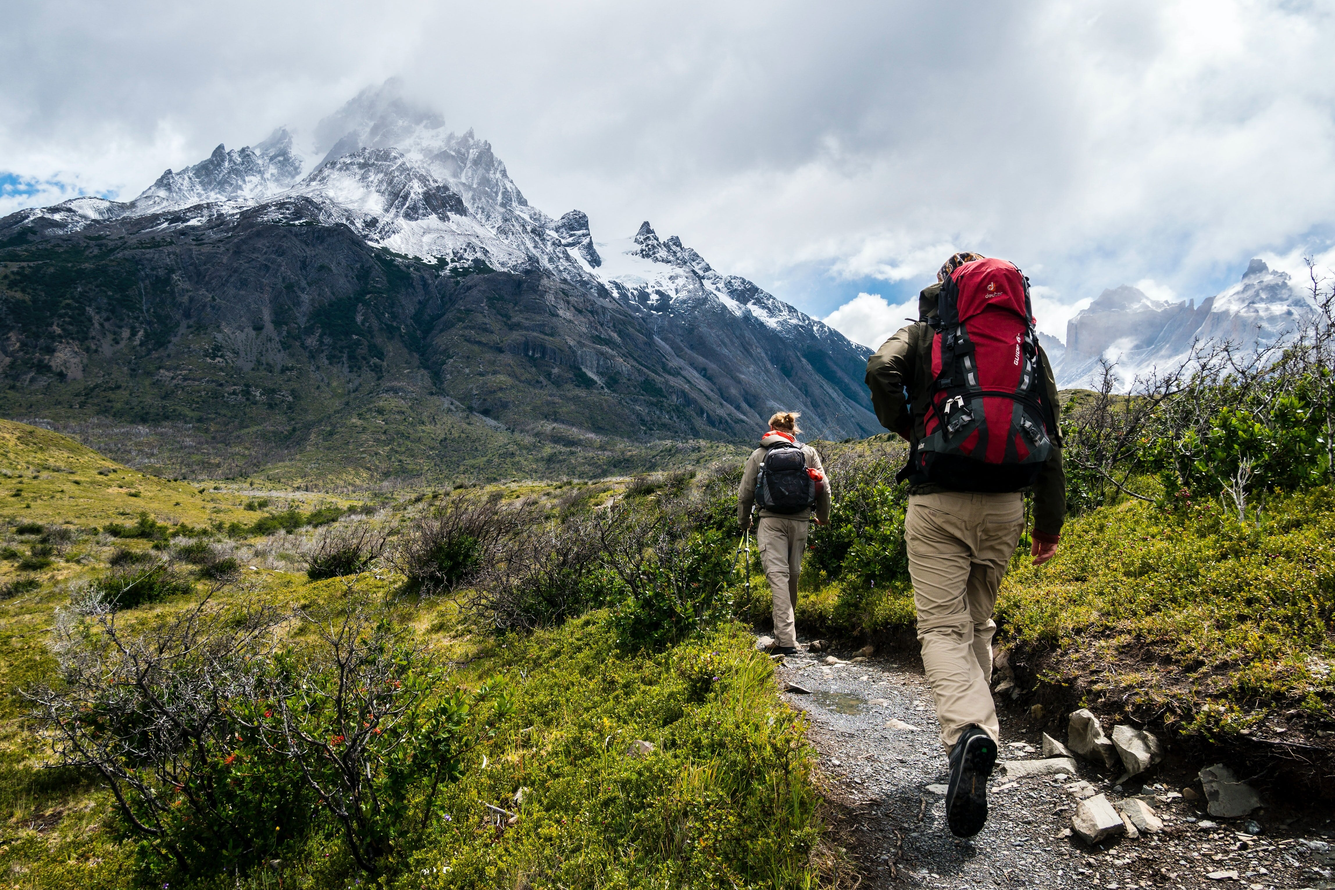
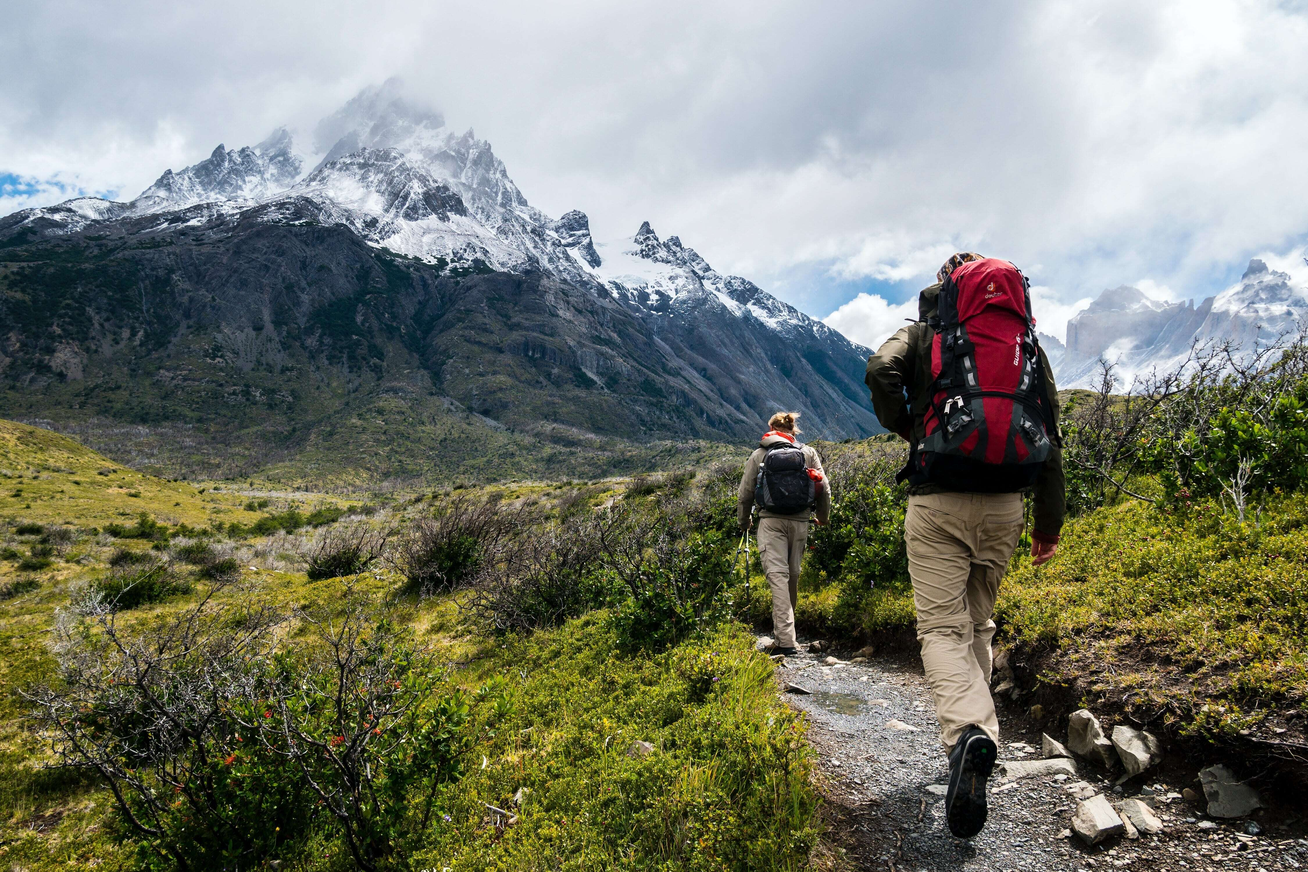
changed images + carousel responsitivity

diff --git a/follow-your-dream/src/components/carousel/Carousel.tsx b/follow-your-dream/src/components/carousel/Carousel.tsx
@@ -1,12 +1,12 @@
-import './Carousel.css';
 import traveler from '../../assets/images/traveler.jpg';
 import marathon from '../../assets/images/marathon.jpg';
 import guitar from '../../assets/images/guitar.jpg';
 import HeaderTitle from '../../components/headertitle/HeaderTitle';
+import './Carousel.css';
 
 export default function Carousel(): JSX.Element {
     return (
-      <div>
+      <div className="carousel-container">
         <div id="carouselExampleIndicators" className="carousel slide" data-bs-ride="carousel">
           <HeaderTitle />
           <div className="carousel-indicators">
@@ -16,13 +16,13 @@ export default function Carousel(): JSX.Element {
           </div>
           <div className="carousel-inner">
             <div className="carousel-item active">
-              <img src={traveler} className="d-block w-100" alt="hikers" />
+              <img src={traveler} className="d-block w-100 img-item" alt="hikers" />
             </div>
             <div className="carousel-item">
-              <img src={marathon} className="d-block w-100" alt="ropes" />
+              <img src={marathon} className="d-block w-100 img-item" alt="ropes" />
             </div>
             <div className="carousel-item">
-              <img src={guitar} className="d-block w-100" alt="town" />
+              <img src={guitar} className="d-block w-100 img-item" alt="town" />
             </div>
           </div>
           <button className="carousel-control-prev" type="button" data-bs-target="#carouselExampleIndicators" data-bs-slide="prev">

diff --git a/follow-your-dream/src/components/carousel/Carousel.css b/follow-your-dream/src/components/carousel/Carousel.css
@@ -1,27 +1,14 @@
- .carousel-item {
-    height: 100vh;
-    min-height: 800px;
-    background: no-repeat center center scroll;
-    -webkit-background-size: cover;
-    -moz-background-size: cover;
-    -o-background-size: cover;
-    background-size: cover;
-  }
-  
-  .carousel-caption {
-    bottom: 270px;
-  }
-  
-  .carousel-caption h5 {
-    font-size: 45px;
-    text-transform: uppercase;
-    letter-spacing: 2px;
-    margin-top: 25px;
-  }
-  
-  .carousel-caption p {
-    width: 75%;
-    margin: auto;
-    font-size: 18px;
-    line-height: 1.9;
-  }
+@media (min-width: 992px) {
+    .img-item {
+        margin-bottom: -150px;
+        margin-top: -150px;
+    }
+}
+
+@media (min-width: 1200px) {
+    .img-item {
+        margin-bottom: -250px;
+        margin-top: -250px;
+    }
+}
+

diff --git a/follow-your-dream/src/components/headertitle/HeaderTitle.css b/follow-your-dream/src/components/headertitle/HeaderTitle.css
@@ -3,29 +3,29 @@
     z-index: 1;
     left: 50%;
     transform: translate(-50%, -50%);
-    color: rgb(5, 5, 5);
-    top: 21%;
+    color: rgb(255, 255, 255);
+    top: 40%;
     text-align: center;
 }
 
 
 
 @media (min-width: 768px) {
-    .first-title {
+    #first-title{
         font-size: 60px;
-        margin: 10px;
+        margin: 20px;
     }
-    .second-title {
+    #second-title {
         font-size: 30px;
         padding: 0px 0px 20px 0px;
     }
 }
 
 @media (max-width: 768px) {
-    .first.title {
-        font-size: 30px;
+    #first-title {
+        font-size: 25px;
     }
-    .second.title {
-        font-size: 5px;
+    #second-title {
+        font-size: 15px;
     }
 }

diff --git a/follow-your-dream/src/components/app/App.tsx b/follow-your-dream/src/components/app/App.tsx
@@ -1,11 +1,11 @@
 import { Route, Routes } from 'react-router-dom';
 import 'bootstrap/dist/css/bootstrap.css';
 
-import Home from '../../pages/Home';
-import Info from '../../pages/Info';
-import Dreams from '../../pages/Dreams';
-import Reviews from '../../pages/Reviews';
-import Contact from '../../pages/Contact';
+import Home from '../../pages/home/Home';
+import Info from '../../pages/info/Info';
+import Dreams from '../../pages/dreams/Dreams';
+import Reviews from '../../pages/reviews/Reviews';
+import Contact from '../../pages/contact/Contact';
 
 function App(): JSX.Element {
 

diff --git a/follow-your-dream/src/components/headertitle/HeaderTitle.tsx b/follow-your-dream/src/components/headertitle/HeaderTitle.tsx
@@ -4,8 +4,8 @@ import GetStartedButton from '../../components/getstartedbutton/GetStartedButton
 export default function HeaderTitle(): JSX.Element {
     return (
         <div className="title-container">
-            <h1 className="first-title">Follow Your Dream</h1>
-            <h2 className="second-title">And become the person you always wanted to be</h2>
+            <h1 id="first-title">Follow Your Dream</h1>
+            <h2 id="second-title">And become the person you always wanted to be</h2>
             <GetStartedButton />
         </div>
     )

diff --git a/follow-your-dream/src/pages/info/Info.tsx b/follow-your-dream/src/pages/info/Info.tsx
@@ -1,0 +1,14 @@
+import Navbar from '../../components/navbar/Navbar';
+import Carousel from '../../components/carousel/Carousel';
+
+export default function Info() {
+    return (
+        <div>
+            < Navbar />
+            < Carousel />
+            <div>
+                <h2>blablabla</h2>
+            </div>
+        </div>
+    )
+}

diff --git a/follow-your-dream/src/pages/contact/Contact.tsx b/follow-your-dream/src/pages/contact/Contact.tsx
@@ -1,0 +1,11 @@
+import Navbar from '../../components/navbar/Navbar';
+import Carousel from '../../components/carousel/Carousel';
+
+export default function Contact() {
+    return (
+        <div>
+            < Navbar />
+            < Carousel />
+        </div>
+    )
+}

diff --git a/follow-your-dream/src/pages/reviews/Reviews.tsx b/follow-your-dream/src/pages/reviews/Reviews.tsx
@@ -1,0 +1,11 @@
+import Navbar from '../../components/navbar/Navbar';
+import Carousel from '../../components/carousel/Carousel';
+
+export default function Reviews() {
+    return (
+        <div>
+            < Navbar />
+            < Carousel />
+        </div>
+    )
+}

diff --git a/follow-your-dream/src/pages/home/Home.tsx b/follow-your-dream/src/pages/home/Home.tsx
@@ -1,0 +1,11 @@
+import Navbar from '../../components/navbar/Navbar';
+import Carousel from '../../components/carousel/Carousel';
+
+export default function Home() {
+    return (
+        <div>
+            < Navbar />
+            < Carousel />
+        </div>
+    )
+}

diff --git a/follow-your-dream/src/pages/dreams/Dreams.tsx b/follow-your-dream/src/pages/dreams/Dreams.tsx
@@ -1,0 +1,10 @@
+import Navbar from '../../components/navbar/Navbar';
+
+export default function Dreams() {
+    return (
+        <div>
+            < Navbar />
+            <h1>Dreams</h1>
+        </div>
+    )
+}

diff --git a/follow-your-dream/src/components/navbar/Navbar.tsx b/follow-your-dream/src/components/navbar/Navbar.tsx
@@ -21,5 +21,3 @@ export default function Navbar(): JSX.Element {
       </nav>
     )
 }
-
-{/* <li className="nav-item"><Link to="/dreams" className="nav-link text-dark">Dreams</Link></li> */}

diff --git a/follow-your-dream/src/components/getstartedbutton/GetStartedButton.tsx b/follow-your-dream/src/components/getstartedbutton/GetStartedButton.tsx
@@ -1,4 +1,3 @@
-import './GetStartedButton.css';
 import { Link } from "react-router-dom";
 
 export default function GetStartedButton(): JSX.Element {
